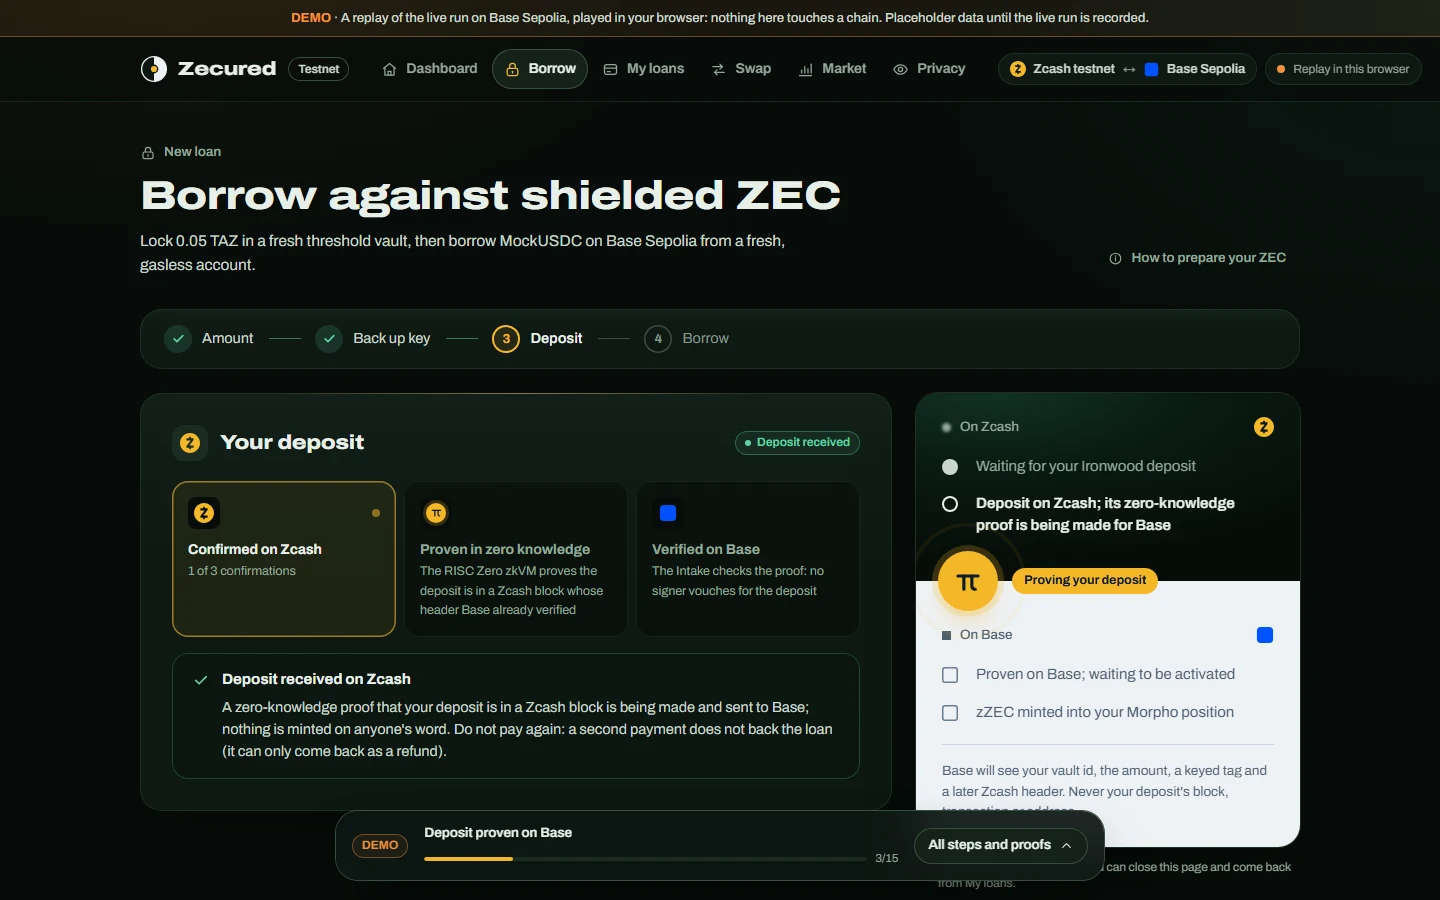
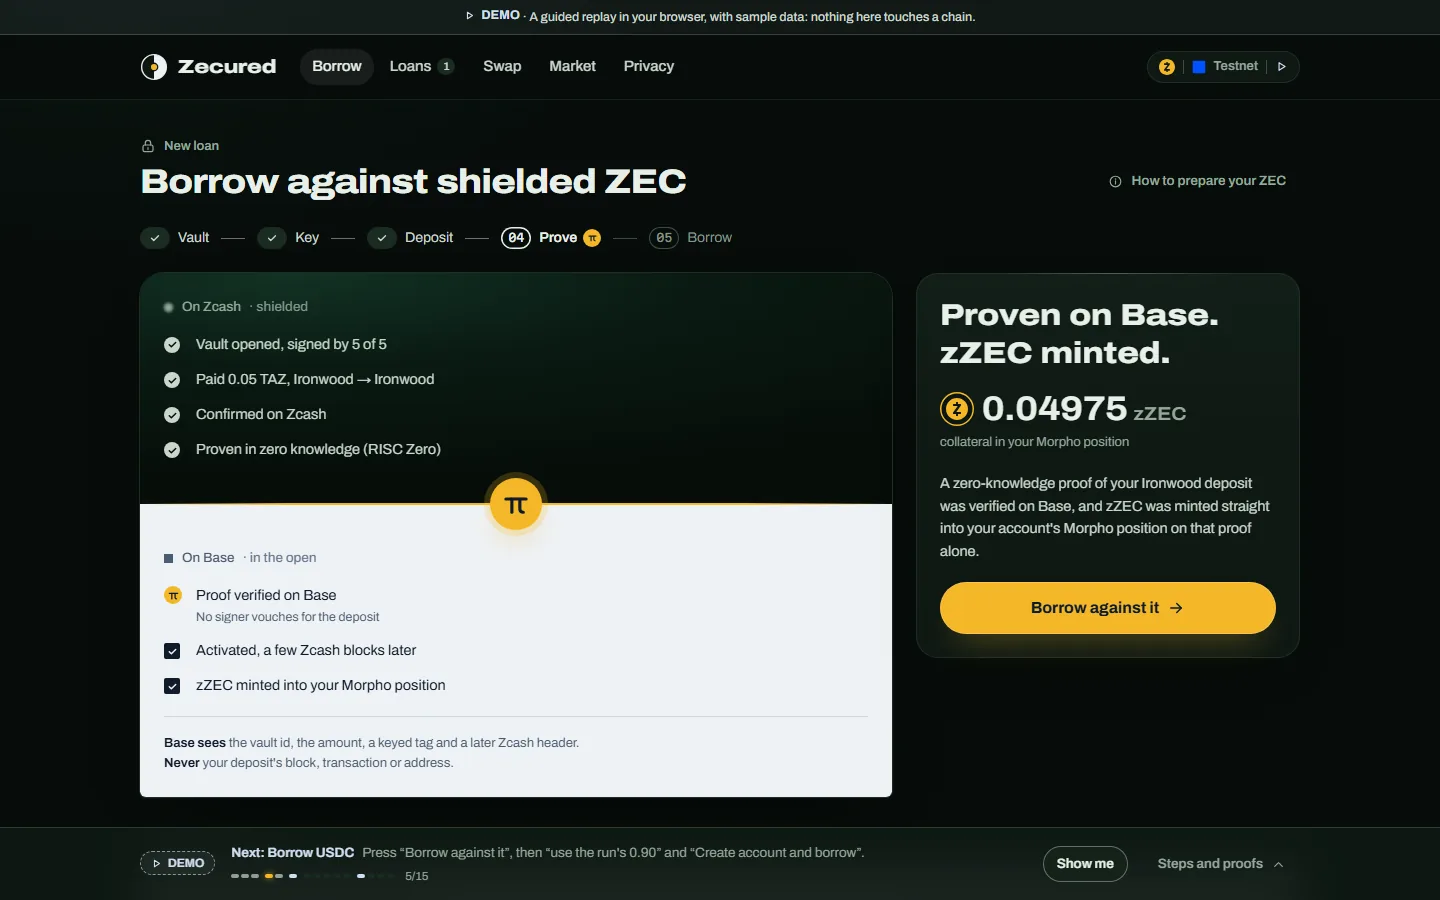
docs(site): the redesigned app in the landing's demo section, and the app's 451 tests

diff --git a/site/docs/index.html b/site/docs/index.html
@@ -446,7 +446,7 @@
         <div class="tr" role="row"><span role="cell">Real Groth16 seals</span><span role="cell"><b>4 kinds</b> of real seal (deposit, F1, inclusion, payment) pass RISC Zero’s router, in 12 tests</span><span role="cell" class="mono">forge test --match-path test/fork/RealSealsV2.t.sol --isolate</span></div>
         <div class="tr" role="row"><span role="cell">On a Base mainnet fork</span><span role="cell"><b>533 pass</b>, the v3 suites, against mainnet’s Morpho Blue and RISC Zero router</span><span role="cell" class="mono">ZECURED_FORK_NETWORK=base-mainnet forge test --isolate</span></div>
         <div class="tr" role="row"><span role="cell">Rust workspace</span><span role="cell"><b>600 pass</b> in CI on Linux</span><span role="cell" class="mono">cargo test --workspace --locked</span></div>
-        <div class="tr" role="row"><span role="cell">App</span><span role="cell"><b>438 pass</b></span><span role="cell" class="mono">pnpm test</span></div>
+        <div class="tr" role="row"><span role="cell">App</span><span role="cell"><b>451 pass</b></span><span role="cell" class="mono">pnpm test</span></div>
         <div class="tr" role="row"><span role="cell">GPU proofs</span><span role="cell"><b>28.1 s</b> for a deposit, 36.9 s for an F1 violation, on one RTX 4090 (the STARK; the Groth16 wrap runs on a CPU)</span><span role="cell" class="mono">scripts/gpu-prove.sh</span></div>
         <div class="tr" role="row"><span role="cell">Leak scan</span><span role="cell"><b>0 matches</b> for 302 identifiers of our own runs</span><span role="cell" class="mono">cargo run -p zecured-leak-scan</span></div>
       </div>

diff --git a/docs/TESTING.md b/docs/TESTING.md
@@ -25,7 +25,7 @@ and Base mainnet. Amounts are testnet ZEC (TAZ, also written ZEC below); 1 ZEC =
 | Deposit and violation statements (Tiers 2, 3) | `cargo test -p zecured-deposit-statement` (and with `--features zecured-deposit-statement/mainnet`), `tier2/target/release/zecured-tier2-host parity tier2/statement/tests/fixtures/TEST-ONLY_vault9_witness.json` and `... violation parity tier2/statement/tests/fixtures/TEST-ONLY_vault9_f1_witness.json` (each network's host) | 49 on each network, and 50 (Testnet) or 51 (Mainnet) + 15 zkVM runs (in CI on the Docker-built guests of each network) | Statement v2: the real deposit's witness proves its journal v2 (a cross-language vector for the Intake); K4's single changes of it (the mode, the epoch and branch id, the transaction's shape in each mode, a changed transaction re-anchored in a block of its own, the txid path, B's leaf, the history path and peaks, T's commitments, the expiry in each mode, the note opening, the recipient, the vault address and its network, the vault's amount in each mode, the tag key) each with its outcome natively on both networks and, through `parity`, in the RISC Zero executor; transaction shapes a witness cannot carry (an Orchard-pool bundle, v5, another epoch); the changes accepted on purpose (authorizing data, header bytes outside the commitments), every vault field binding the journal, and the regression of the two-tag attack (one note cannot land under two tag keys, in either mode). Tier 3: F1 on a real Testnet spend of the TEST-ONLY vault, F2 on its change, F3 with the vault as claimant (only the claim's own output to its exact receiver counts, and a note that does not match its `cmx` pays nothing: E1), F4 with the tag key only, `Included`, every opening field and key bound, the epoch, the journal ABI |
 | Payment statement (Zecured Swap) | `cargo test -p zecured-payment-statement` (and with `--features zecured-payment-statement/mainnet`), `tier2/target/release/zecured-tier2-host payment parity tier2/payment-statement/tests/fixtures/TEST-ONLY_swap_payment_witness.json` | 4 + 10 (one ignored: the fixture writer) on each network, and 42 (Testnet) or 43 (Mainnet) single changes in the zkVM (in CI on the Docker-built guests) | The synthetic payment (D68) proves its 192-byte journal; each single change of it (epochs, D5, every inclusion relation, the note opening, the memo's prefix and order id, the salt, the amount) gives the same outcome natively and in the RISC Zero executor; the real deposit of the TEST-ONLY vault is refused only at the memo |
 | Rust workspace | `cargo test --workspace --locked` (plus `-p zecured-node --features demo`, `-p zecured-backend --features test-hooks`), run in a target directory of its own | 600 in CI on Linux, 597 on Windows, which does not build three Unix-only checks (8 ignored); 52 with `demo` and 81 with `test-hooks` (1 ignored) on Windows, 134 together on Linux | ZIP 2005 key derivation against published vectors; FROST DKG and re-randomized signing; an offline FROST-signed Ironwood spend; P1 classification; the payout ledger and PCZT verification; EIP-712 parity with Solidity (every v4 message: the R-1 confirmation, liveness receipts, operator messages, swap quotes, the owner's `ProveRefund`); D16 request authentication; scanner reorg detection; the paymaster allowlist (with liveness armings and pre-liquidation terms); a regression test for every finding of the [security review](SECURITY_REVIEW.md), and one named after each finding of the review of the v4.1 diff (N-1 to N-12: the confirmation that follows the planned anchor, the F4 rules, a foreign payout's anchor, the arming and case keepers, the treasury keys file, the Ironwood index, the swap payers' check right before the broadcast, the maker's places and reservations); Tier 3: the commitment each node derives, the claims a payout keeps, every v4 event checked against Registry state; v4: the planner's rules (O-4), receipts from the nodes and the backend, proven delivery and the keepers (refunds, expiries, case proofs, burns), invites, `zecured-ops`, the bots' interest accrual (R-24) and their liveness armings, the market maker's nonce lock, the swap crate, the maker and the payment witness builder, the leak scanner; the Zcash network from the configuration (D81: its pairing with the Base chain, encodings, branch ids and epochs, the relay's network id) |
-| App | `cd app && pnpm typecheck && pnpm test && pnpm build` | 438 tests (30 files) | Unified address encoding (F4Jumble), commitments, EIP-712 messages and their golden vectors (owner requests, `ProveRefund`, deleverage, swap quotes), liveness receipts, Safe address prediction, the call allowlist, Morpho math and pre-liquidation previews, every ABI fragment against the compiled contracts, API parsing, the evidence file's schema |
+| App | `cd app && pnpm typecheck && pnpm test && pnpm build` | 451 tests (35 files) | Unified address encoding (F4Jumble), commitments, EIP-712 messages and their golden vectors (owner requests, `ProveRefund`, deleverage, swap quotes), liveness receipts, Safe address prediction, the call allowlist, Morpho math and pre-liquidation previews, every ABI fragment against the compiled contracts, API parsing, the evidence file's schema, the replay (a poll inside a step's block skips nothing; its recording holds no secret) |
 
 The Rust EIP-712 digests are checked against the same golden vectors as the Solidity tests,
 so signers and contracts cannot silently disagree on a message format.

diff --git a/docs/SITE.md b/docs/SITE.md
@@ -100,7 +100,7 @@ Every number on the site comes from a recorded run, and each has its source:
 | Halmos 22 of 22, for every input of a single call | TESTING § 1 |
 | 4 of 4 kinds of real proof (deposit, F1, inclusion, payment) pass RISC Zero’s router, in 12 tests (`RealSealsV2.t.sol`) | TESTING § 2, “Statement v2's seals on-chain” |
 | 533 on a Base mainnet fork (the v3 suites) | TESTING § 1, MAINNET § 1 |
-| Rust 600 (CI on Linux), app 438 | TESTING § 1 |
+| Rust 600 (CI on Linux), app 451 | TESTING § 1 |
 | GPU: a deposit in 28.1 s, an F1 in 36.9 s (the STARK); about a minute more for the Groth16 wrap (61.5 s on a 15-vCPU x86 machine) | TESTING § 2, 2026-10-21 and 2026-10-14 |
 | Leak scan: 302 identifiers (txids, note commitments, nullifiers, raw receivers, viewing and tag keys), 77 events, 55 calldata, 177 storage words, 0 matches | TESTING § 2 (P-6) and its leak scanner |
 | The browser run: 2 min 50 s, 4 min 25 s, 7 min 56 s (MOCK verifier on that fork); 729,131 gas | TESTING § 2 |
